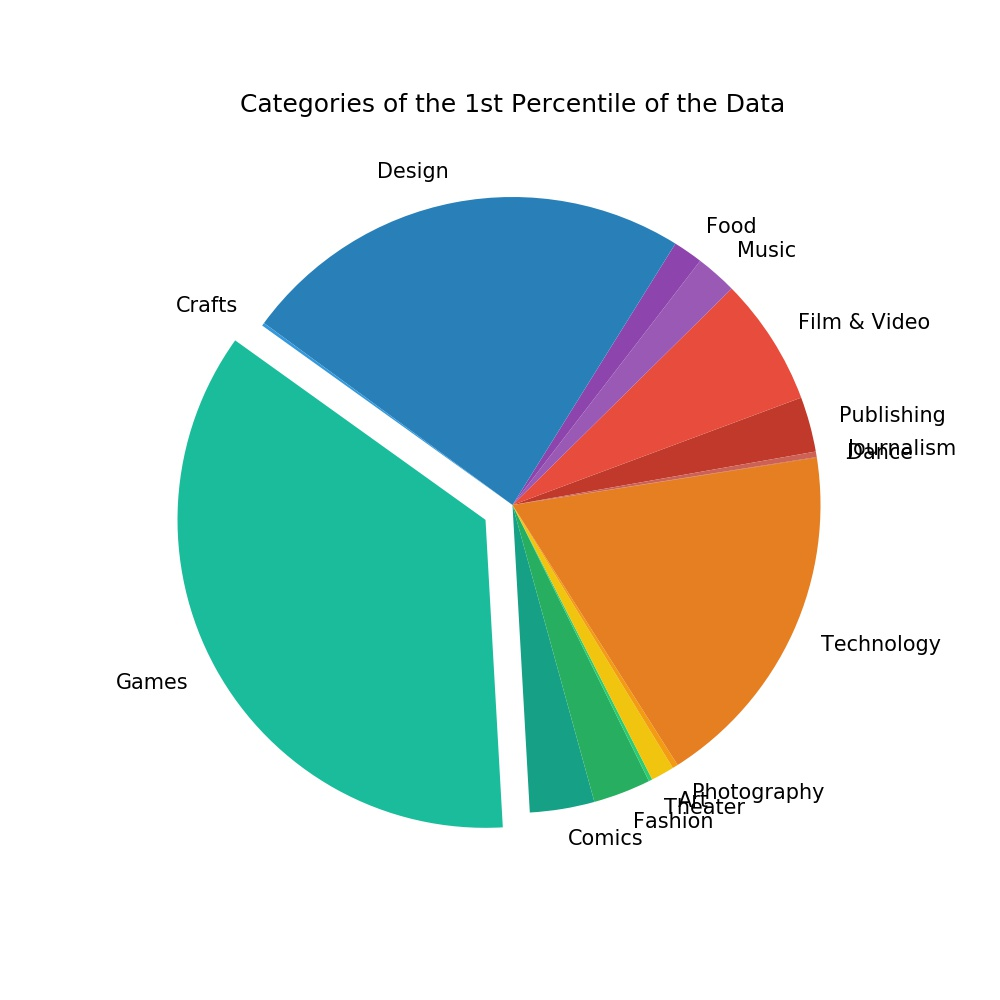
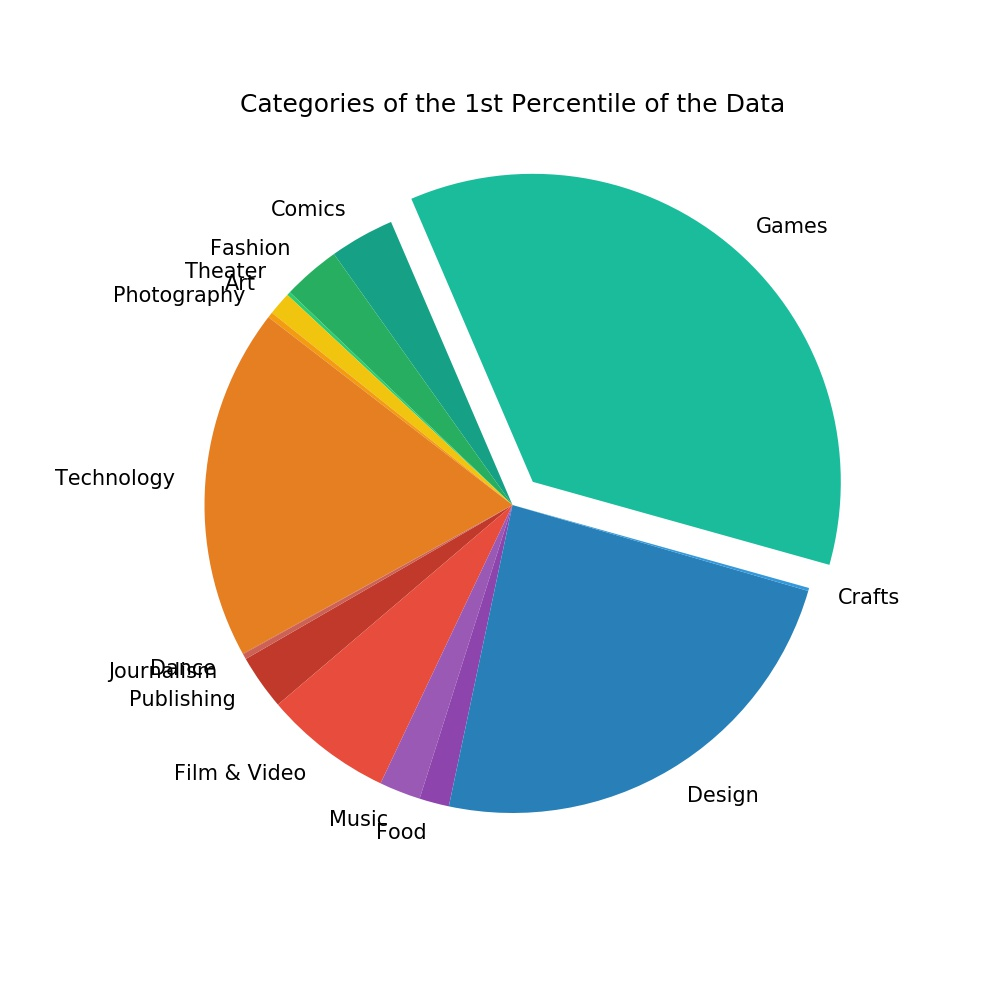
fix pie chart orientation

diff --git a/statistical-analysis.py b/statistical-analysis.py
@@ -1,8 +1,8 @@
 # Problems 2 and 4
 # Paul Pham pkdpham
 #
-# This program defines functions that will work with the Kickstarter dataset to
-# do various forms of statistical analysis
+# This program defines functions that will work with the Kickstarter
+# dataset to do various forms of statistical analysis
 
 
 from main import preprocess_data as preprocess
@@ -71,7 +71,7 @@ def graph_perc(data, percentile, pathname):
     explode = (0, 0, 0, 0, 0, 0, 0.1, 0, 0, 0, 0, 0, 0, 0, 0)
     fig, ax = plt.subplots(figsize=(10, 10))
     plt.rcParams['font.size'] = 15
-    ax.pie(data.values(), labels=labels, colors=colors, startangle=10,
+    ax.pie(data.values(), labels=labels, colors=colors, startangle=210,
            explode=explode)
     plt.title(title)
     path = 'results/' + pathname + '_perc_categories.jpg'
